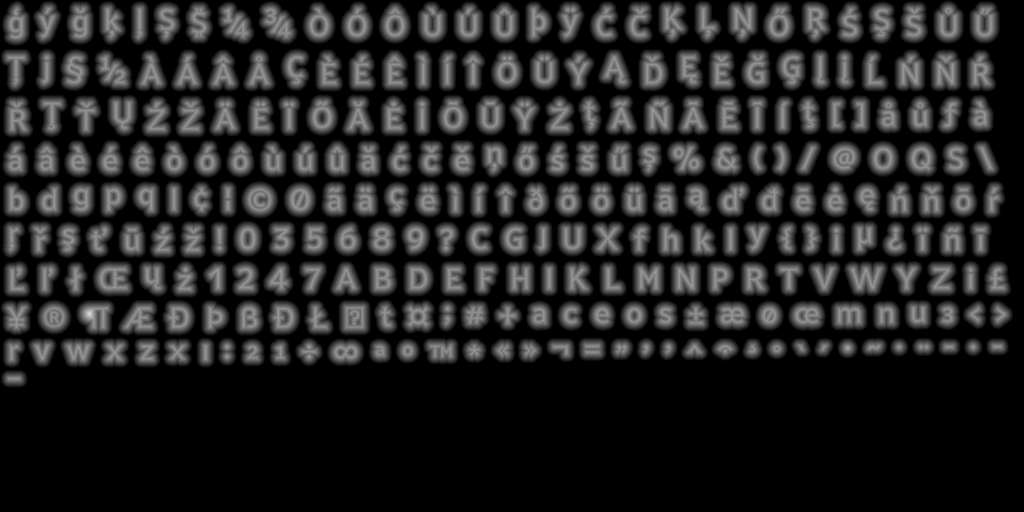
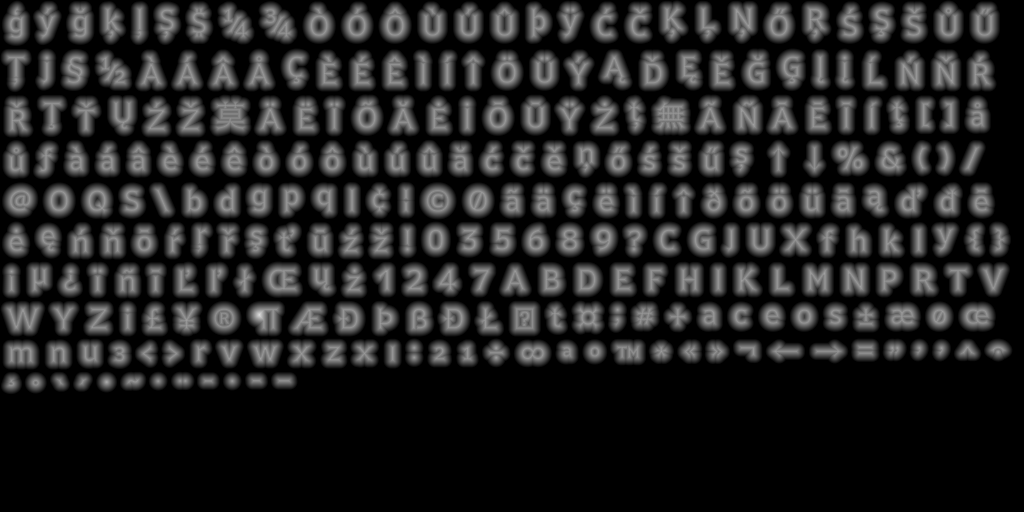
Typography

Changed region(s): [[0.0, 0.1875, 1.0, 0.7812]]

diff --git a/src/client/main.js b/src/client/main.js
@@ -72,9 +72,16 @@ export function main() {
       fanfare: 'fanfare',
       fanfare_mini: ['fanfare_mini1', 'fanfare_mini2'],
     },
+    // font: {
+    //   info: require('./img/font/oswald32.json'),
+    //   texture: 'font/oswald32',
+    // },
   })) {
     return;
   }
+  let font_periodic = glov_font.create(require('./img/font/oswald32.json'), 'font/oswald32');
+  let font_shadows = glov_font.create(require('./img/font/shadows32.json'), 'font/shadows32');
+
   gl.clearColor(0.1, 0.1, 0.1, 1);
 
   const font = engine.font;
@@ -142,7 +149,7 @@ export function main() {
     { // easy, but exact
       name: '1jp',
       display_name: 'Japanese',
-      hint: '"Mu" (Japanese) (noun): nothing; nothingness',
+      hint: '無 (Japanese "Mu") (noun): nothing; nothingness',
       source: 'MoO', // 50
       goal: 'NaY', // 50
     },
@@ -158,7 +165,7 @@ export function main() {
     { // my score: 6/3/7; easy
       name: '2cn',
       display_name: 'Chinese',
-      hint: '"Mò" (Ancient Chinese) (noun): nothing; no one',
+      hint: '莫 (Ancient Chinese "Mò") (noun): nothing; no one',
       source: 'Mo', // 42
       goal: 'SiNO', // 29
     },
@@ -487,11 +494,11 @@ export function main() {
     let pad = 8;
     let level_data = levels[level];
     let y = 100;
-    font.drawSizedAligned(glov_font.styleAlpha(style_title_click, title_fade1),
+    font_periodic.drawSizedAligned(glov_font.styleAlpha(style_title_click, title_fade1),
       0, y, z, size * 0.75, glov_font.ALIGN.HCENTERFIT, trans_width, 0,
       `Level ${level+1}/${levels.length}`);
     y += size + pad;
-    font.drawSizedAligned(glov_font.styleAlpha(style_title, title_fade2),
+    font_shadows.drawSizedAligned(glov_font.styleAlpha(style_title, title_fade2),
       0, y, z, size, glov_font.ALIGN.HCENTERFIT, trans_width, 0,
       level_data.display_name);
     y += size + pad;
@@ -540,7 +547,7 @@ export function main() {
     }
     state = new GameState(level);
     state.update();
-    if (!levels[level].did_transition && !DEBUG) {
+    if (!levels[level].did_transition) { //  && !DEBUG) {
       levels[level].did_transition = true;
       transition_anim = animation.create();
       transition_up = true;
@@ -584,7 +591,7 @@ export function main() {
     let z = Z.UI + 10;
     let size = 16;
     let width = camera2d.x1() - x - 5;
-    font.drawSizedAligned(score_style, x, y, z, size * 2, glov_font.ALIGN.HCENTERFIT, width, 0,
+    font_periodic.drawSizedAligned(score_style, x, y, z, size * 2, glov_font.ALIGN.HCENTERFIT, width, 0,
       `High Scores (Level ${level+1})`);
     y += size * 2 + 2;
     let scores = score_system.high_scores[levels[level].name];
@@ -709,12 +716,12 @@ export function main() {
     let z = Z.UI;
     let selected_elem = 0;
     function elementFull(v, style, color) {
-      font.drawSizedAligned(style, x, y + CELL_H * 0.125, z, ui.font_height * 1.25,
+      font_periodic.drawSizedAligned(style, x, y + CELL_H * 0.125, z, ui.font_height * 1.25,
         glov_font.ALIGN.HCENTER, 0, 0, periodic[v] ? periodic[v][0] : '!!!!');
       ui.drawRect(x - RECT_HW, y, x + RECT_HW, y + CELL_H * 2, z - 2, color || color_white);
       ui.drawRect(x - RECT_HW + RECT_BORDER, y + RECT_BORDER,
         x + RECT_HW - RECT_BORDER, y + CELL_H * 2 - RECT_BORDER, z - 1, color_black);
-      font.drawSizedAligned(style, x - RECT_HW + RECT_BORDER, y + CELL_H * 1.25, z, ui.font_height * 0.75,
+      font_periodic.drawSizedAligned(style, x - RECT_HW + RECT_BORDER, y + CELL_H * 1.25, z, ui.font_height * 0.75,
         glov_font.ALIGN.HRIGHT, RECT_HW * 2 - RECT_BORDER * 2, 0, `${v}`);
       if (input.mouseOver({
         x: x - RECT_HW,
@@ -734,7 +741,7 @@ export function main() {
         outline_width: 1.5,
         outline_color: bg_style.color
       });
-      font.drawSizedAligned(bg_style, x - SMALL_HW + RECT_BORDER - 4, y, z, ui.font_height,
+      font_periodic.drawSizedAligned(bg_style, x - SMALL_HW + RECT_BORDER - 4, y, z, ui.font_height,
         glov_font.ALIGN.HCENTER,
         SMALL_HW * 2 - RECT_BORDER * 2, 0, `${periodic[v] ? periodic[v][0] : '!!!!'}`);
       ui.drawRect(x - SMALL_HW, y, x + SMALL_HW, y + CELL_H, z - 2, color || color_white);
@@ -744,7 +751,7 @@ export function main() {
         outline_width: 1,
         outline_color: 0x00000080,
       });
-      font.drawSizedAligned(fg_style, x - SMALL_HW + RECT_BORDER, y, z + 0.1, ui.font_height * 0.75,
+      font_periodic.drawSizedAligned(fg_style, x - SMALL_HW + RECT_BORDER, y, z + 0.1, ui.font_height * 0.75,
         glov_font.ALIGN.HRIGHT | glov_font.ALIGN.VBOTTOM, SMALL_HW * 2 - RECT_BORDER * 2, CELL_H, String(v));
     }
     elementSmall.height = CELL_H;
@@ -752,7 +759,7 @@ export function main() {
       ui.drawRect(x - SMALL_HW, y, x + SMALL_HW, y + CELL_H, z - 2, color || color_white);
       ui.drawRect(x - SMALL_HW + RECT_BORDER, y + RECT_BORDER,
         x + SMALL_HW - RECT_BORDER, y + CELL_H - RECT_BORDER, z - 1, color_black);
-      font.drawSizedAligned(style, x - SMALL_HW + RECT_BORDER, y, z + 0.1, ui.font_height,
+      font_periodic.drawSizedAligned(style, x - SMALL_HW + RECT_BORDER, y, z + 0.1, ui.font_height,
         glov_font.ALIGN.HCENTER | glov_font.ALIGN.VCENTER, SMALL_HW * 2 - RECT_BORDER * 2, CELL_H, String(v));
     }
     numberSmall.height = CELL_H;
@@ -841,7 +848,7 @@ export function main() {
     }
     y = goal_y;
     x = 30;
-    font.drawSizedAligned(null, x, y, z, ui.font_height, glov_font.ALIGN.HVCENTER, 0, elementFull.height, 'Goal:');
+    font_periodic.drawSizedAligned(null, x, y, z, ui.font_height, glov_font.ALIGN.HVCENTER, 0, elementFull.height, 'Goal:');
     x += HSPACE + 10;
     let complete = true;
     for (let ii = 0; ii < state.goal.length; ++ii) {
@@ -902,25 +909,29 @@ export function main() {
       color: 0x202020ff,
     });
 
-    font.drawSizedAligned(score_style, x, y, z, ui.font_height,
+    font_periodic.drawSizedAligned(side_visible ? glov_font.styleColored(score_style, pico8.font_colors[5]) : score_style,
+      x, y, z,
+      ui.font_height * 0.8,
       side_visible ? glov_font.ALIGN.HCENTER : glov_font.ALIGN.HFIT,
       x1 - x - 5, 0,
       `${side_visible ? 'Level ' : ''}${level+1}/${levels.length}`);
     y += ui.font_height;
     let level_data = levels[level];
     if (side_visible) {
-      font.drawSizedAligned(score_style, x, y, z, ui.font_height,
+      font_periodic.drawSizedAligned(score_style, x, y, z, ui.font_height * 1.35,
         side_visible ? glov_font.ALIGN.HCENTER : glov_font.ALIGN.HFIT,
         x1 - x - 5, 0,
         level_data.display_name);
-      y += ui.font_height;
+      y += ui.font_height * 1.35;
     }
     y += ui.font_height * 0.5;
 
+    x = x0 + (side_visible ? 40 : 0);
     font.drawSizedAligned(score_style, x, y, z, ui.font_height, glov_font.ALIGN.HFIT, x1 - x - 5, 0,
       side_visible ? 'SCORE (lower is better)' : 'Score');
     y += ui.font_height;
-    x = x0 + (side_visible ? 20 : 2);
+    let indent = (side_visible ? 20 : 2);
+    x += indent;
     font.drawSizedAligned(score_style, x, y, z, ui.font_height * 0.75, glov_font.ALIGN.HLEFT, 0, 0,
       `H${side_visible ? 'eight' : ''}: ${state.active_height}`);
     y += ui.font_height * 0.75;
@@ -949,7 +960,7 @@ export function main() {
         side_visible ? ` (max ${level_data.max_score[2]})` : `/${level_data.max_score[2]}` :
         ''}`);
     y += ui.font_height * 0.75;
-    x = x0;
+    x -= indent;
     let total_style = score_style;
     if (over_limits) {
       total_style = score_style_bad;
@@ -964,6 +975,7 @@ export function main() {
 
     y += ui.font_height * 0.5;
 
+    x = x0;
     let did_reset = false;
     if (side_visible) {
       let button_w = 150;
@@ -1003,7 +1015,7 @@ export function main() {
         level_data.did_hint = true;
       }
 
-      y += ui.font_height * 4; // regardless of hint height
+      y += ui.font_height * 5; // regardless of hint height
 
       if (have_scores) {
         showHighScores(x, y);
@@ -1072,16 +1084,16 @@ export function main() {
         y = camera2d.y0() + PAD;
       }
 
-      font.drawSizedAligned(score_style, x + BIG_BORDER*2, y + BIG_H * 0.2, z, ui.font_height * 9 * BIG_SCALE,
+      font_periodic.drawSizedAligned(score_style, x + BIG_BORDER*2, y + BIG_H * 0.2, z, ui.font_height * 9 * BIG_SCALE,
         glov_font.ALIGN.HCENTERFIT, BIG_W - BIG_BORDER * 4, 0,
         periodic[selected_elem] ? periodic[selected_elem][0] : '!!!!');
-      font.drawSizedAligned(score_style, x + BIG_BORDER*2, y + BIG_H * 0.75, z, ui.font_height * 2 * BIG_SCALE,
+      font_periodic.drawSizedAligned(score_style, x + BIG_BORDER*2, y + BIG_H * 0.75, z, ui.font_height * 2 * BIG_SCALE,
         glov_font.ALIGN.HCENTERFIT, BIG_W - BIG_BORDER * 4, 0,
         periodic[selected_elem] ? periodic[selected_elem][1] : 'Danger!');
       ui.drawRect(x, y, x + BIG_W, y + BIG_H, z - 2, color_black);
       ui.drawRect(x + BIG_BORDER, y + BIG_BORDER,
         x + BIG_W - BIG_BORDER, y + BIG_H - BIG_BORDER, z - 1, bg_color);
-      font.drawSizedAligned(score_style, x + BIG_BORDER + 8, y + BIG_BORDER + 8, z, ui.font_height * 3.5 * BIG_SCALE,
+      font_periodic.drawSizedAligned(score_style, x + BIG_BORDER + 8, y + BIG_BORDER + 8, z, ui.font_height * 3.5 * BIG_SCALE,
         glov_font.ALIGN.HLEFT, 0, 0, `${selected_elem}`);
     }
 

diff --git a/README.md b/README.md
@@ -8,9 +8,14 @@ LD45 Entry by Jimbly - "SOMtHINGa from NoThINGa"
 Start with: `npm start` (after running `npm i` once)
 
 TODO:
-  add 莫 (trad chin) and 無 (jp) to font
-  remove 1-frame height mixup when switching levels - calculate or smoothly transition
+  say "next level" if you've ever completed it
+  start centered
+  better modal on level complete
+    click anywhere to dismiss
+  bonus level if all completed
   any way to fix antialiasing issue with Chrome?
+  better vertical flow
+  remove 1-frame height mixup when switching levels - calculate or smoothly transition
   also zoom on width a bit?  start centered in larger board?
   Art
     Separate fission/fusion/both pipes?
